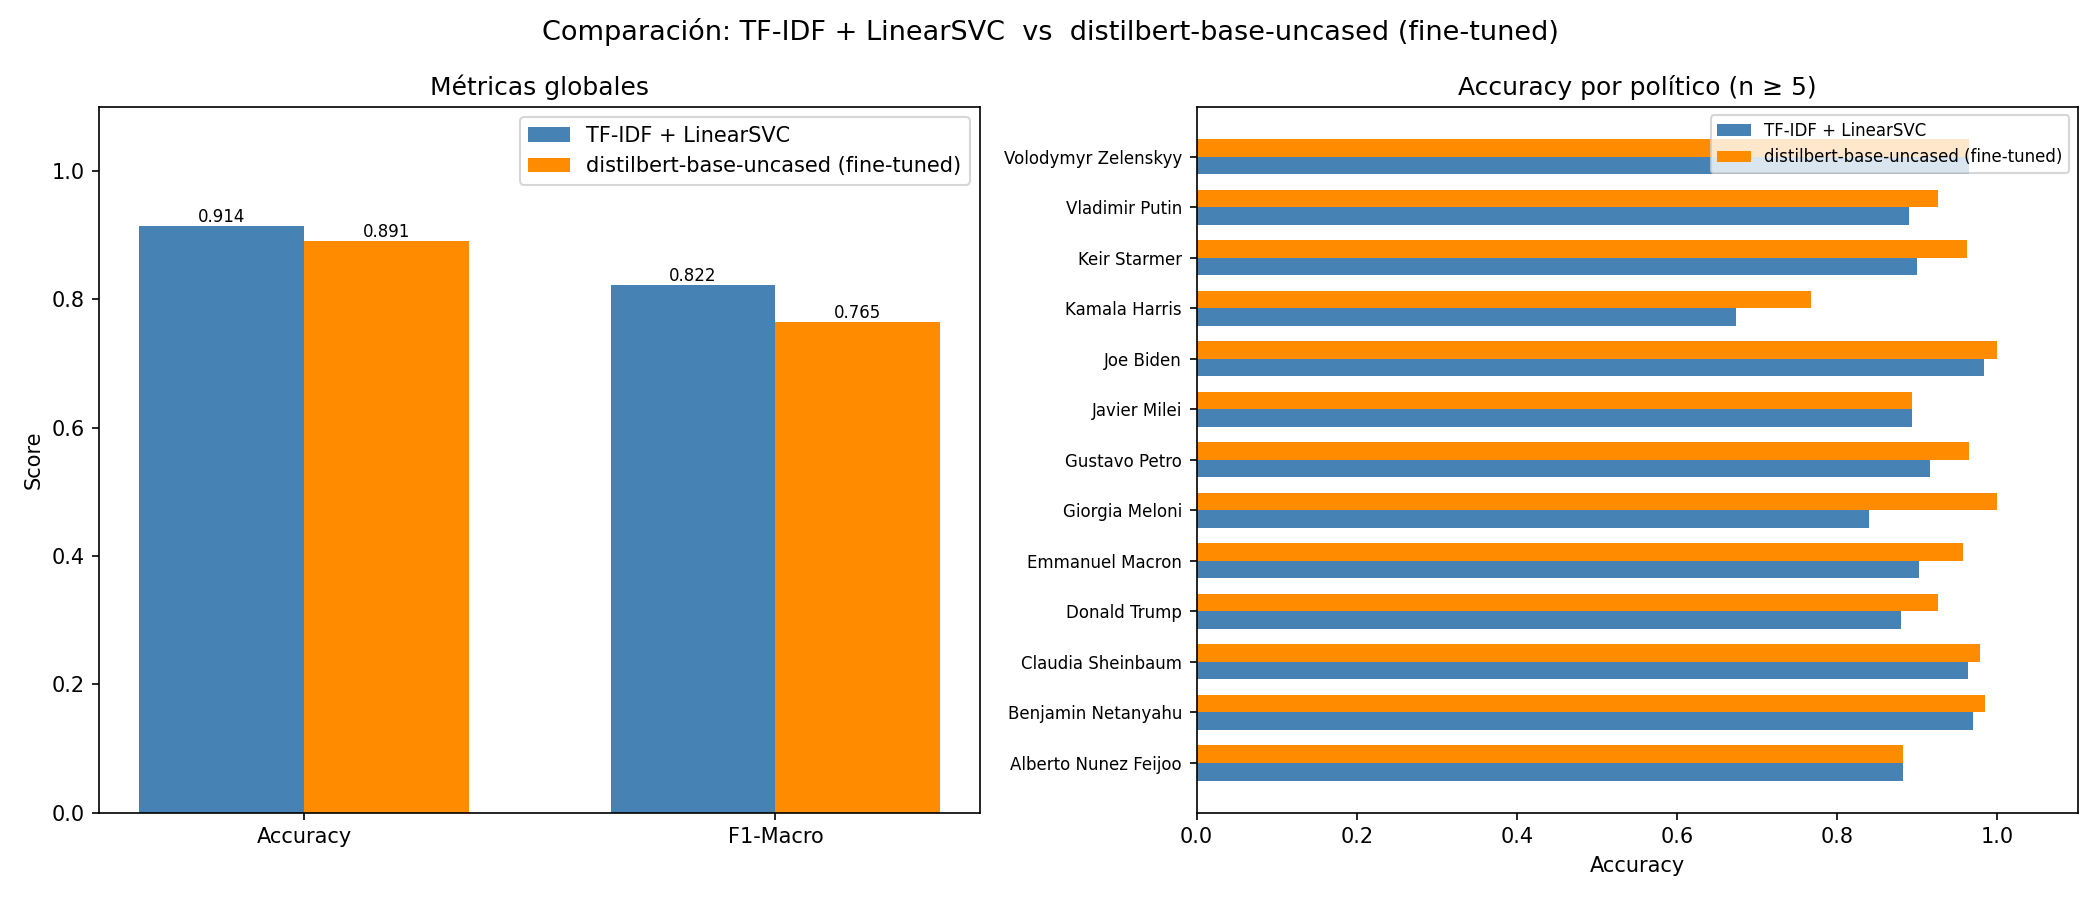
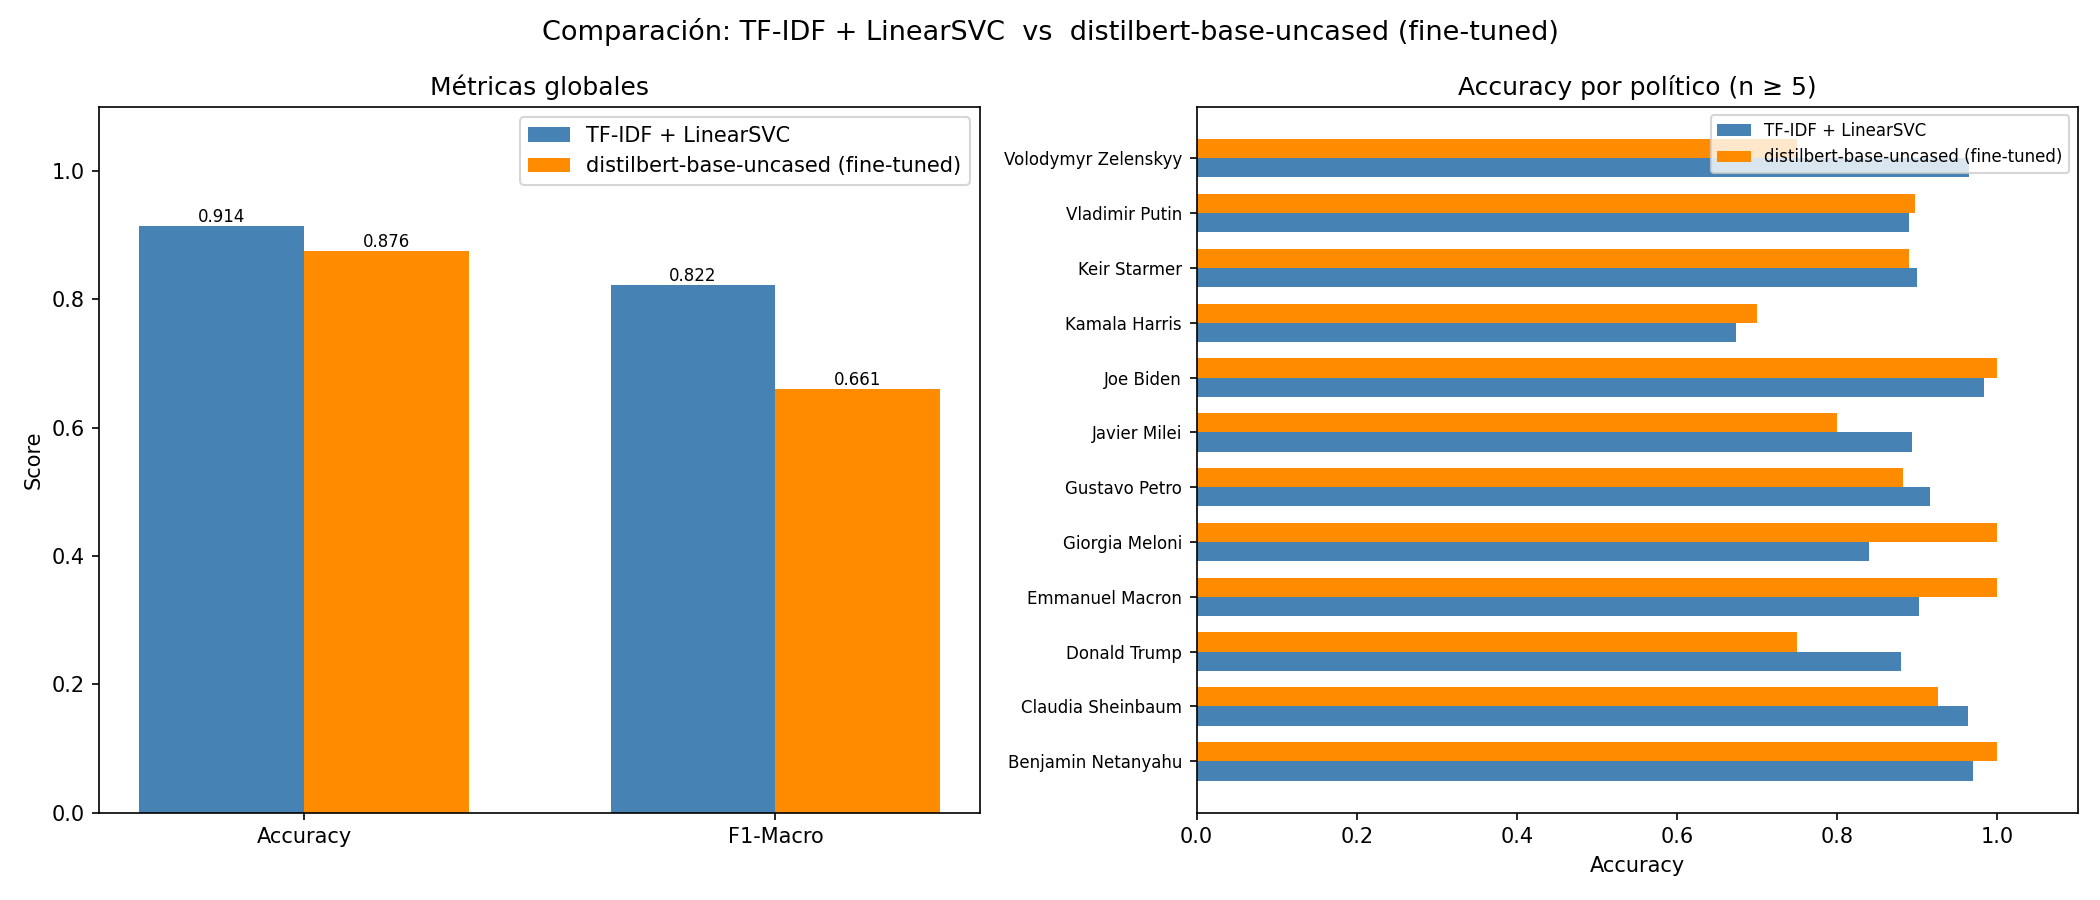
feat: Change readme and images

diff --git a/ainee_politics/application/use_cases/train_model.py b/ainee_politics/application/use_cases/train_model.py
@@ -162,7 +162,7 @@ def train_model(settings: TrainingSettings) -> Path:
     print(_SEP)
 
     if settings.finetune:
-        transformer_results, transformer_preds = train_transformer_finetuned(
+        transformer_results, transformer_preds_full, transformer_preds_test = train_transformer_finetuned(
             texts=texts,
             labels=labels,
             model_name=settings.transformer_model,
@@ -175,6 +175,17 @@ def train_model(settings: TrainingSettings) -> Path:
             provided_train_idx=train_idx,
             provided_test_idx=test_idx,
         )
+
+        # Per-politician stats: prefer out-of-sample (test) for comparison/plotting
+        test_rows = [valid[i] for i in test_idx]
+        test_labels = [labels[i] for i in test_idx]
+        transformer_per_pol_test = per_politician_stats(test_rows, test_labels, transformer_preds_test)
+        # Keep full-corpus (in-sample) stats for reference but mark them separately
+        transformer_per_pol_full = per_politician_stats(valid, labels, transformer_preds_full)
+        transformer_results["per_politician"] = transformer_per_pol_test
+        transformer_results["per_politician_full"] = transformer_per_pol_full
+        transformer_per_pol = transformer_per_pol_test
+        _print_model_report(transformer_results, per_pol=transformer_per_pol_test)
     else:
         transformer_results, transformer_preds = evaluate_transformer(
             texts=texts,
@@ -183,9 +194,9 @@ def train_model(settings: TrainingSettings) -> Path:
             output_dir=settings.output_dir,
             text_max_chars=settings.text_max_chars,
         )
-    transformer_per_pol = per_politician_stats(valid, labels, transformer_preds)
-    transformer_results["per_politician"] = transformer_per_pol
-    _print_model_report(transformer_results, per_pol=transformer_per_pol)
+        transformer_per_pol = per_politician_stats(valid, labels, transformer_preds)
+        transformer_results["per_politician"] = transformer_per_pol
+        _print_model_report(transformer_results, per_pol=transformer_per_pol)
 
     # ------------------------------------------------------------------
     # Comparison (using shared test-set metrics)

diff --git a/ainee_politics/infrastructure/nlp/classifier.py b/ainee_politics/infrastructure/nlp/classifier.py
@@ -363,7 +363,7 @@ def train_transformer_finetuned(
         "confusion_matrix_path": str(cm_path),
         "model_saved_to": str(model_save_path),
     }
-    return results, y_pred_full
+    return results, y_pred_full, y_pred_test
 
 
 # ---------------------------------------------------------------------------

diff --git a/README.md b/README.md
@@ -10,12 +10,12 @@ Medir si una noticia política tiene tono positivo o negativo a nivel de artícu
 
 | Modelo | F1-Macro (test) | Accuracy (test) |
 |---|---|---|
-| TF-IDF + LinearSVC | **0.8561** | **0.8596** |
-| RoBERTa (fine-tuned, 3 epochs) | 0.7623 | 0.7632 |
-| Llama 3.1 8B zero-shot (Ollama) | 0.5529 | 0.6053 |
+| TF-IDF + LinearSVC | **0.8008** | **0.8911** |
+| DistilBERT (fine-tuned, 3 epochs) | 0.7649 | 0.8911 |
+| Llama 3.1 8B (zero-shot, Ollama) | 0.5948 | 0.7525 |
 
-- **Corpus:** 570 artículos binarios (positive/negative), 12 políticos, split 80/20 compartido entre modelos
-- **Evaluación cross-político (LOPO):** F1-Macro medio = 0.5231 — el modelo depende de señales específicas por político, generalización limitada
+- **Corpus:** 2,104 artículos etiquetados (1,006 usados para entrenamiento), 13 políticos, split 80/20 (train 804 / test 202)
+- **Evaluación cross-político (LOPO):** F1-Macro medio = 0.6109 — el modelo depende de señales específicas por político, generalización limitada
 
 ## Pipeline completo
 
@@ -98,7 +98,7 @@ Salida: `data/corpus_labeled.jsonl`, `data/corpus_labeled.csv`
 
 ## Paso 4 — Entrenar y comparar modelos
 
-Entrena TF-IDF + LinearSVC y hace fine-tuning de un transformer (RoBERTa por defecto) sobre el mismo split 80/20:
+Entrena TF-IDF + LinearSVC y hace fine-tuning de un transformer (DistilBERT por defecto) sobre el mismo split 80/20:
 
 ```bash
 python main.py train-model --input data/corpus_labeled.jsonl
